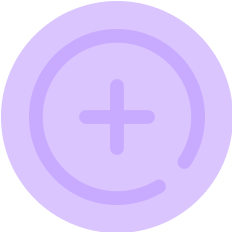
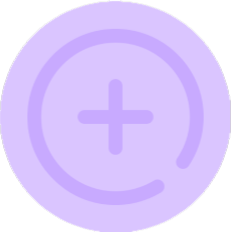
shell of add post

diff --git a/screens/CreatePost.js b/screens/CreatePost.js
@@ -1,0 +1,62 @@
+import { TouchableOpacity, Keyboard, KeyboardAvoidingView, Text, View, ScrollView, TextInput } from 'react-native';
+import { useState } from 'react';
+import Header from '../components/Header';
+import styles from '../styles/CreatePostStyles';
+import { ref, push, set, onValue, get, getDatabase } from "firebase/database";
+
+export default function CreatePost(props) {
+  const db = getDatabase();
+
+  const [text, setText] = useState("");
+
+  const dataRef = ref(db, 'posts');
+
+//   function addComment() {
+//     if (comment != "") {
+//       const newPostRef = push(dataRef);
+//       set(newPostRef, {
+//         text: comment,
+//         user: "testname",
+//         time: new Date().toLocaleTimeString(navigator.language, {hour: '2-digit', minute:'2-digit'})
+//       });
+//       setComment("");
+//       Keyboard.dismiss();
+//     }
+//   }
+
+  function submitAll() {
+    // check if all fields are filled in first
+    // const newPostRef = push(dataRef);
+    // set(newPostRef, {
+    //     text: comment,
+    //     user: "testname",
+    //     time: new Date().toLocaleTimeString(navigator.language, {hour: '2-digit', minute:'2-digit'})
+    // });
+    // reset vals to default
+    Keyboard.dismiss();
+  }
+
+    return (
+        <View style={styles.screen}>
+            <Header/>
+            <View style={styles.container}>
+                <View style={styles.addComment}>
+                    <TextInput 
+                        scrollEnabled={false} 
+                        multiline={true} 
+                        value={text} 
+                        onChangeText={newText => setText(newText)} 
+                        style={styles.input} 
+                        placeholder="Add Body..."
+                        returnKeyType='done'
+                        blurOnSubmit={true}
+                    >
+                    </TextInput>
+                    <TouchableOpacity onPress={submitAll} style={styles.submit}>
+                        <Text>Submit</Text>
+                    </TouchableOpacity>
+                </View>
+            </View>
+        </View>
+  );
+};

diff --git a/screens/Feed.js b/screens/Feed.js
@@ -1,8 +1,9 @@
-import { StyleSheet, TouchableOpacity, View, ScrollView } from 'react-native';
+import { StyleSheet, TouchableOpacity, View, ScrollView, Image } from 'react-native';
 import { useState, useEffect } from 'react';
 import Header from './../components/Header';
 import FeedPost from './../components/FeedPost';
 import { getDatabase, ref, onValue, get } from "firebase/database";
+import addPost from '../assets/add.png';
 
 export default function Feed(props) {
   const db = getDatabase();
@@ -35,6 +36,11 @@ export default function Feed(props) {
             )
           })}
       </ScrollView>
+      <TouchableOpacity style={styles.button} onPress={() => {
+        navigation.navigate("CreatePost");
+      }}>
+        <Image style={styles.img} source={addPost}/>
+      </TouchableOpacity>
     </View>
   );
 };
@@ -56,4 +62,17 @@ const styles = StyleSheet.create({
     borderWidth: 1,
     borderColor: 'blue',
   },
+  button: {
+    borderRadius: 200,
+    position: 'absolute',
+    right: '5%',
+    bottom: '6%',
+    width: '20%',
+    height: '9%',
+  },
+  img: {
+    width: '100%',
+    height: '100%',
+    resizeMode: 'contain',
+  }
 })

diff --git a/App.js b/App.js
@@ -2,6 +2,7 @@ import { StyleSheet, Text, View } from 'react-native';
 import Feed from './screens/Feed.js';
 import IPost from './screens/IPost.js';
 import Login from './screens/Login.js';
+import CreatePost from './screens/CreatePost.js';
 import { NavigationContainer } from '@react-navigation/native';
 import { createNativeStackNavigator } from '@react-navigation/native-stack';
 import { initializeApp } from "firebase/app";
@@ -17,6 +18,7 @@ export default function App() {
           <Stack.Screen name="Login" component={Login} options={{headerShown: false}}/>
           <Stack.Screen name="Feed" component={Feed} options={{headerShown: false}}/>
           <Stack.Screen name="IPost" component={IPost} options={{headerShown: false}}/>
+          <Stack.Screen name="CreatePost" component={CreatePost} options={{headerShown: false}}/>
         </Stack.Navigator>
     </NavigationContainer>
   );

diff --git a/components/FeedPost.js b/components/FeedPost.js
@@ -9,8 +9,8 @@ export default function FeedPost(props) {
     const timeText = props.post.time;
     const driver = props.post.driver.name;
 
-    let spots = <Text style={styles.leftText}>{numPpl}{'/'}{capacity}</Text>;
-    if (numPpl == capacity) {
+    let spots = <Text style={styles.leftText}>{rsvpd}{'/'}{capacity}</Text>;
+    if (rsvpd == capacity) {
         spots = <Text style={[styles.leftText, {color: 'red'}]}>{rsvpd}{'/'}{capacity}</Text>;
     }
 

diff --git a/screens/IPost.js b/screens/IPost.js
@@ -1,4 +1,4 @@
-import { TouchableOpacity, Keyboard, KeyboardAvoidingView, Text, View, ScrollView, TextInput, MaskedViewComponent } from 'react-native';
+import { TouchableOpacity, Keyboard, KeyboardAvoidingView, Text, View, ScrollView, TextInput } from 'react-native';
 import { useEffect, useState } from 'react';
 import Header from '../components/Header';
 import styles from '../styles/IPostStyles';

diff --git a/styles/CreatePostStyles.js b/styles/CreatePostStyles.js
@@ -1,0 +1,14 @@
+import { StyleSheet } from 'react-native';
+
+export default StyleSheet.create({
+    screen: {
+        flex: 1,
+        width: '100%',
+        alignItems: 'center',
+    },
+    container: {
+        width: '90%',
+        marginTop: '8%',
+        height: '85%',
+    },
+})
